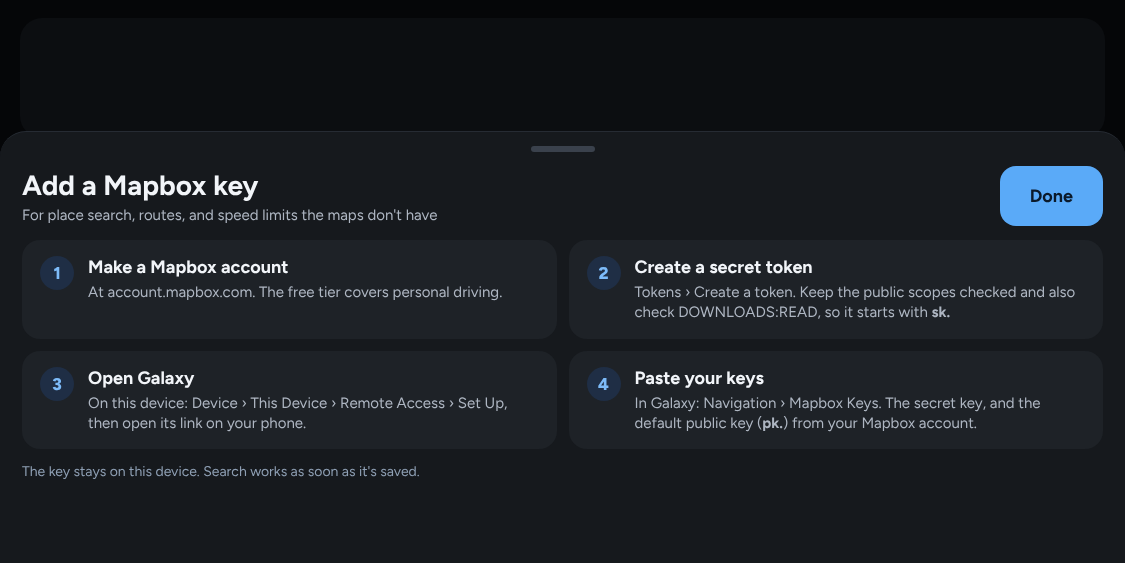
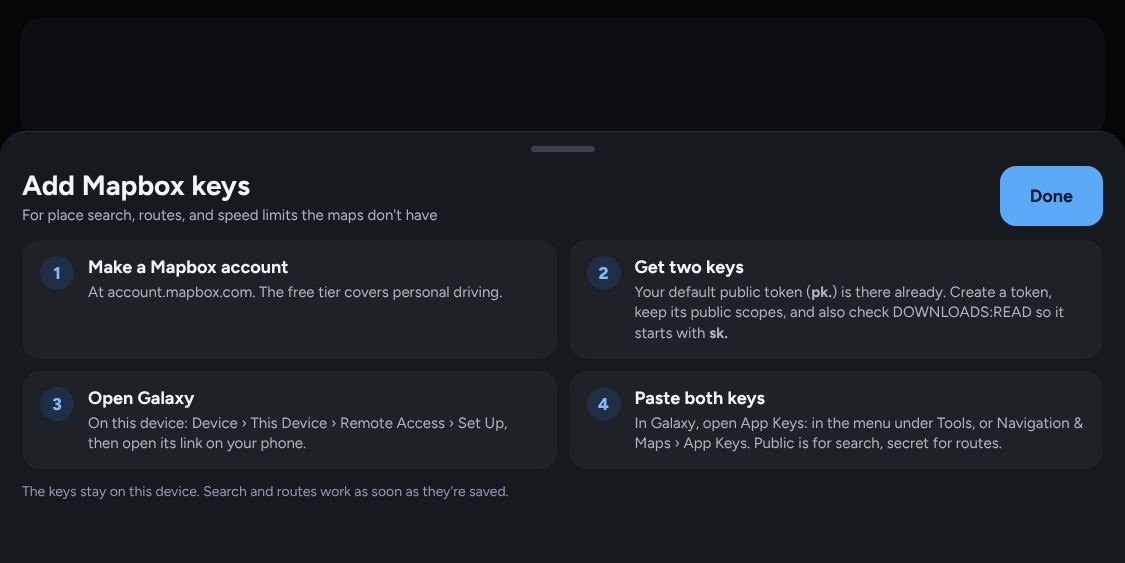
Mapbox keys: correct Galaxy's App Keys page and which key does what
Search on the device uses the public key (pk.); routes, turn guidance and
the speed-limit filler use the secret key (sk.). The row now reports each
key, Where to? asks for the public one and the route preview for the
secret one, and the steps point to Galaxy's App Keys page (classic menu >
Tools, or Navigation & Maps > App Keys), not a Navigation > Mapbox Keys
page that doesn't exist.

Claude-Session: https://claude.ai/code/session_01R4pPc2hcx88Dbjjec1p8WC

diff --git a/selfdrive/ui/tandem/design/mapboxkey.html b/selfdrive/ui/tandem/design/mapboxkey.html
@@ -20,7 +20,7 @@ a{color:#7DBBF9}a:hover{color:#A9D3FB}
     <div style="align-self: center; width: 64px; height: 6px; border-radius: 3px; background: #3A414C;"></div>
     <div style="display: flex; align-items: center; gap: 18px;">
       <div style="flex-grow: 1; display: flex; flex-direction: column; gap: 4px;">
-        <h2 style="margin: 0; font-size: 28px; font-weight: 700;">Add a Mapbox key</h2>
+        <h2 style="margin: 0; font-size: 28px; font-weight: 700;">Add Mapbox keys</h2>
         <span style="font-size: 15px; color: #AEB6C2;">For place search, routes, and speed limits the maps don't have</span>
       </div>
       <a href="drivingnav.html" style="text-decoration: none; height: 60px; padding: 0 30px; border-radius: 16px; background: #5AAAF8; color: #0B1A2B; font-size: 18px; font-weight: 700; display: flex; align-items: center;">Done</a>
@@ -32,7 +32,7 @@ a{color:#7DBBF9}a:hover{color:#A9D3FB}
       </div>
       <div style="background: #1E2227; border-radius: 18px; padding: 16px 18px; display: flex; gap: 14px; align-items: flex-start;">
         <span style="flex-shrink: 0; width: 34px; height: 34px; border-radius: 17px; background: #1F2E45; color: #7DBBF9; font-size: 17px; font-weight: 800; display: flex; align-items: center; justify-content: center;">2</span>
-        <div style="display: flex; flex-direction: column; gap: 4px;"><span style="font-size: 18px; font-weight: 700;">Create a secret token</span><span style="font-size: 15px; color: #AEB6C2; line-height: 1.35;">Tokens › Create a token. Keep the public scopes checked and also check DOWNLOADS:READ, so it starts with <b>sk.</b></span></div>
+        <div style="display: flex; flex-direction: column; gap: 4px;"><span style="font-size: 18px; font-weight: 700;">Get two keys</span><span style="font-size: 15px; color: #AEB6C2; line-height: 1.35;">Your default public token (<b>pk.</b>) is there already. Create a token, keep its public scopes, and also check DOWNLOADS:READ so it starts with <b>sk.</b></span></div>
       </div>
       <div style="background: #1E2227; border-radius: 18px; padding: 16px 18px; display: flex; gap: 14px; align-items: flex-start;">
         <span style="flex-shrink: 0; width: 34px; height: 34px; border-radius: 17px; background: #1F2E45; color: #7DBBF9; font-size: 17px; font-weight: 800; display: flex; align-items: center; justify-content: center;">3</span>
@@ -40,10 +40,10 @@ a{color:#7DBBF9}a:hover{color:#A9D3FB}
       </div>
       <div style="background: #1E2227; border-radius: 18px; padding: 16px 18px; display: flex; gap: 14px; align-items: flex-start;">
         <span style="flex-shrink: 0; width: 34px; height: 34px; border-radius: 17px; background: #1F2E45; color: #7DBBF9; font-size: 17px; font-weight: 800; display: flex; align-items: center; justify-content: center;">4</span>
-        <div style="display: flex; flex-direction: column; gap: 4px;"><span style="font-size: 18px; font-weight: 700;">Paste your keys</span><span style="font-size: 15px; color: #AEB6C2; line-height: 1.35;">In Galaxy: Navigation › Mapbox Keys. The secret key, and the default public key (<b>pk.</b>) from your Mapbox account.</span></div>
+        <div style="display: flex; flex-direction: column; gap: 4px;"><span style="font-size: 18px; font-weight: 700;">Paste both keys</span><span style="font-size: 15px; color: #AEB6C2; line-height: 1.35;">In Galaxy, open App Keys: in the menu under Tools, or Navigation &amp; Maps › App Keys. Public is for search, secret for routes.</span></div>
       </div>
     </div>
-    <span style="font-size: 14px; color: #8FA0B5;">The key stays on this device. Search works as soon as it's saved.</span>
+    <span style="font-size: 14px; color: #8FA0B5;">The keys stay on this device. Search and routes work as soon as they're saved.</span>
   </section>
 </div>
 

diff --git a/selfdrive/ui/tandem/design/drivingnav.html b/selfdrive/ui/tandem/design/drivingnav.html
@@ -45,7 +45,7 @@ a{color:#7DBBF9}a:hover{color:#A9D3FB}
         <button type="button" role="switch" aria-checked="true" aria-label="End Route When Parked" style="width: 72px; height: 42px; border-radius: 21px; border: 0; background: #5AAAF8; padding: 4px; display: flex; justify-content: flex-end;"><span style="width: 34px; height: 34px; border-radius: 17px; background: #0E1520; display: block;"></span></button>
       </div>
       <div style="display: flex; align-items: center; gap: 14px; padding: 0 16px 0 22px; height: 62px; border-bottom: 1px solid #23272E;">
-        <div style="flex-grow: 1; display: flex; flex-direction: column; gap: 2px;"><span style="font-size: 18px; font-weight: 600;">Mapbox Key</span><span style="font-size: 14px; color: #F0B35A;">Not added · needed for place search and routes</span></div>
+        <div style="flex-grow: 1; display: flex; flex-direction: column; gap: 2px;"><span style="font-size: 18px; font-weight: 600;">Mapbox Keys</span><span style="font-size: 14px; color: #F0B35A;">Not added · needed for place search and routes</span></div>
         <a href="mapboxkey.html" style="text-decoration: none; height: 44px; padding: 0 18px; border-radius: 12px; background: #23272E; color: #F2F5F9; font-size: 16px; font-weight: 600; display: flex; align-items: center;">How to add</a>
       </div>
       <a href="mapdata.html" style="text-decoration: none; display: flex; align-items: center; gap: 14px; padding: 0 14px 0 22px; height: 62px; color: #F2F5F9;">

diff --git a/selfdrive/ui/tandem/mapbox_help.py b/selfdrive/ui/tandem/mapbox_help.py
@@ -1,9 +1,10 @@
 """How to add a Mapbox key (design/mapboxkey.html), and whether there is one.
 
-StarPilot's navigation needs a secret Mapbox key (sk.) for place search (Search Box API), routes (Directions API) and
-the speed limits its Mapbox filler adds; all of those work with a token's default public scopes. A token is secret
-(sk.) once it has any secret scope, so the steps add the read-only DOWNLOADS:READ. Tandem has no field to type a key:
-it's pasted in StarPilot's Galaxy web app (Navigation › Mapbox Keys), which also takes the public key (pk.).
+StarPilot's navigation takes two Mapbox keys: the public one (pk., the account's default token) for place search
+(Search Box API), and a secret one (sk.) for routes, turn guidance (Directions API) and the speed limits its Mapbox filler
+adds. Those work with a token's default public scopes; a token is secret (sk.) once it has any secret scope, so the steps
+add the read-only DOWNLOADS:READ. Tandem has no field to type a key: both are pasted in StarPilot's Galaxy web app, under
+App Keys (classic menu › Tools, /manage_navigation_keys; newer layout: Navigation & Maps › App Keys).
 """
 from __future__ import annotations
 
@@ -15,36 +16,51 @@ from openpilot.selfdrive.ui.tandem import draw, tokens as T
 from openpilot.selfdrive.ui.tandem.base import Component
 from openpilot.selfdrive.ui.tandem.layout import FILL, Align, column, inset, place, row
 
-NOT_ADDED = "Not added · needed for place search and routes"
 WHERE = "Settings › Driving › Speed & Steering › Navigation"
 
 STEPS = [
   ("Make a Mapbox account", "At account.mapbox.com. The free tier covers personal driving."),
-  ("Create a secret token", ("Tokens › Create a token. Keep the public scopes checked and also check DOWNLOADS:READ, so it " +
-                             "starts with sk.")),
+  ("Get two keys", "Your default public token (pk.) is there already. Create a token, keep its public scopes, and also " +
+                   "check DOWNLOADS:READ so it starts with sk."),
   ("Open Galaxy", "On this device: Device › This Device › Remote Access › Set Up, then open its link on your phone."),
-  ("Paste your keys", ("In Galaxy: Navigation › Mapbox Keys. The secret key, and the default public key (pk.) from your " +
-                       "Mapbox account.")),
+  ("Paste both keys", "In Galaxy, open App Keys: in the menu under Tools, or Navigation & Maps › App Keys. Public is " +
+                      "for search, secret for routes."),
 ]
 
 
-def has_key(read: Callable[[str], object]) -> bool:
-  """A secret key saved, as StarPilot's routing_configured checks."""
-  value = read("MapboxSecretKey")
+def _saved(read: Callable[[str], object], key: str) -> bool:
+  value = read(key)
   value = value.decode() if isinstance(value, bytes) else str(value or "")
   return bool(value.strip())
+
+
+def keys(read: Callable[[str], object]) -> tuple[bool, bool]:
+  """(public, secret): StarPilot searches places with the public key and routes with the secret one (routing_configured)."""
+  return _saved(read, "MapboxPublicKey"), _saved(read, "MapboxSecretKey")
+
+
+def status(read: Callable[[str], object]) -> tuple[str, bool]:
+  """The Mapbox Key row's line, and whether both keys are there."""
+  public, secret = keys(read)
+  if public and secret:
+    return "Added", True
+  if public:
+    return "Public key only · routes need the secret key too", False
+  if secret:
+    return "Secret key only · search needs the public key too", False
+  return "Not added · needed for place search and routes", False
 
 
 class Steps(Component):
   """The four numbered steps, two by two, and the note under them."""
   grow_touch_target = False
-  NOTE = "The key stays on this device. Search works as soon as it's saved."
+  NOTE = "The keys stay on this device. Search and routes work as soon as they're saved."
 
   def preferred_size(self, max_width: float) -> tuple[float, float]:
-    return max_width, T.px(100) * 2 + T.px(12) + T.px(14) + draw.line_height(T.font_px(14))
+    return max_width, T.px(128) * 2 + T.px(12) + T.px(14) + draw.line_height(T.font_px(14))
 
   def _render(self, rect: rl.Rectangle):
-    grid, _, note = column(rect, [T.px(100) * 2 + T.px(12), T.px(14), draw.line_height(T.font_px(14))])
+    grid, _, note = column(rect, [T.px(128) * 2 + T.px(12), T.px(14), draw.line_height(T.font_px(14))])
     rows = column(grid, [FILL, FILL], T.px(12))
     cells = [c for r in rows for c in row(r, [FILL, FILL], T.px(12))]
     for i, ((title, line), cell) in enumerate(zip(STEPS, cells, strict=True), 1):
@@ -64,5 +80,5 @@ class Steps(Component):
 def mapbox_key_sheet(done: Callable[[], None]):
   from openpilot.selfdrive.ui.tandem.controls import Button, ButtonStyle
   from openpilot.selfdrive.ui.tandem.overlays import Sheet
-  return Sheet("Add a Mapbox key", Steps(), subtitle="For place search, routes, and speed limits the maps don't have",
+  return Sheet("Add Mapbox keys", Steps(), subtitle="For place search, routes, and speed limits the maps don't have",
                actions=[Button("Done", done, ButtonStyle.PRIMARY)], on_dismiss=done)

diff --git a/selfdrive/ui/tandem/settings/speed_steering.py b/selfdrive/ui/tandem/settings/speed_steering.py
@@ -372,13 +372,13 @@ class Navigation:
   def set_end_when_parked(self, on: bool) -> None:
     self._store.write({"ClearNavOnOffroad": on})
 
-  def has_mapbox_key(self) -> bool:
-    from openpilot.selfdrive.ui.tandem.mapbox_help import has_key
-    return has_key(self._store.get_str)
+  def mapbox_status(self) -> tuple[str, bool]:
+    """The Mapbox Key row's line, and whether both keys are saved."""
+    from openpilot.selfdrive.ui.tandem.mapbox_help import status
+    return status(self._store.get_str)
 
 
 def navigation_panel(model: Navigation, open_destinations, open_offline_maps, open_mapbox_help=lambda: None) -> ListPanel:
-  from openpilot.selfdrive.ui.tandem.mapbox_help import NOT_ADDED
 
   def place(title: str, icon: str, get) -> SettingRow:
     return SettingRow(title, lambda: get() or "Not set", Button(lambda: "Change" if get() else "Set", open_destinations),
@@ -390,8 +390,8 @@ def navigation_panel(model: Navigation, open_destinations, open_offline_maps, op
     SettingRow("Other favorites", lambda: f"{model.others()} saved", on_click=open_destinations, leading=Icon("star")),
     SettingRow("End Route When Parked", "Clears the destination when you turn off the car",
                Switch(lambda: model.end_when_parked, model.set_end_when_parked)),
-    SettingRow("Mapbox Key", lambda: "Added" if model.has_mapbox_key() else NOT_ADDED,
-               Button(lambda: "How to change" if model.has_mapbox_key() else "How to add", open_mapbox_help),
-               subtitle_color=lambda: T.SUCCESS_TEXT if model.has_mapbox_key() else T.WARNING),
+    SettingRow("Mapbox Keys", lambda: model.mapbox_status()[0],
+               Button(lambda: "How to change" if model.mapbox_status()[1] else "How to add", open_mapbox_help),
+               subtitle_color=lambda: T.SUCCESS_TEXT if model.mapbox_status()[1] else T.WARNING),
     SettingRow("Offline Maps", "Speed limits and routing without a connection", on_click=open_offline_maps),
   ], title="Navigation", subtitle="While a route is active, the car slows for turns and uses route speed limits")

diff --git a/selfdrive/ui/tandem/tests/test_destinations.py b/selfdrive/ui/tandem/tests/test_destinations.py
@@ -2,6 +2,7 @@ import pytest
 
 from openpilot.selfdrive.ui.tandem import keyboard as K
 from openpilot.selfdrive.ui.tandem import destinations as D
+from openpilot.selfdrive.ui.tandem.routemap import NOT_SET_UP
 from openpilot.selfdrive.ui.tandem.tests.fakes import FakePlaces
 
 
@@ -89,12 +90,18 @@ def test_preview_star_saves_and_start_follows_routing():
   assert closed and places.active() is not None
   screen, places, _ = _screen(routing=False)
   screen._pick(places.recents()[0])
-  assert not screen._start_button.enabled and places.route() == (None, "Routes need a Mapbox key: see Settings › Driving › Speed & Steering › Navigation")
+  assert not screen._start_button.enabled and places.route() == (None, NOT_SET_UP)
 
 
-def test_mapbox_key_check_and_help_steps():
-  from openpilot.selfdrive.ui.tandem.mapbox_help import STEPS, has_key
-  assert not has_key(lambda key: "") and not has_key(lambda key: b"  ") and not has_key(lambda key: None)
-  assert has_key(lambda key: "sk.abc" if key == "MapboxSecretKey" else "")
+def test_mapbox_keys_each_do_their_part_and_the_steps_point_to_app_keys():
+  from openpilot.selfdrive.ui.tandem.mapbox_help import STEPS, keys, status
+
+  def saved(**values):
+    return lambda key: values.get(key, "")
+  assert keys(saved()) == (False, False) and keys(saved(MapboxPublicKey=b"  ")) == (False, False)
+  assert status(saved(MapboxPublicKey="pk.a", MapboxSecretKey="sk.b")) == ("Added", True)
+  assert status(saved(MapboxPublicKey="pk.a"))[0].startswith("Public key only")
+  assert status(saved(MapboxSecretKey="sk.b"))[0].startswith("Secret key only")
+  assert status(saved()) == ("Not added · needed for place search and routes", False)
   text = " ".join(line for _, line in STEPS)
-  assert "DOWNLOADS:READ" in text and "sk." in text and "Mapbox Keys" in text and "Remote Access" in text
+  assert "open App Keys" in text and "under Tools" in text and "Navigation & Maps › App Keys" in text and "DOWNLOADS:READ" in text and "pk." in text

diff --git a/selfdrive/ui/tandem/destinations.py b/selfdrive/ui/tandem/destinations.py
@@ -63,7 +63,8 @@ class Places(Protocol):
   def clear_draft(self) -> None: ...
   def saved_as(self) -> tuple[bool, bool, bool]: ...   # the draft: favorite, home, work
   def toggle(self, kind: str) -> None: ...             # "favorite", "home" or "work"
-  def can_start(self) -> bool: ...
+  def can_start(self) -> bool: ...                   # the secret Mapbox key, for routes
+  def can_search(self) -> bool: ...                  # the public Mapbox key, for place search
   def start(self) -> bool: ...
   def end_route(self) -> None: ...
   def maps_ready(self) -> bool: ...
@@ -155,6 +156,9 @@ class UpstreamPlaces:
 
   def can_start(self) -> bool:
     return self._nav._routing_available()
+
+  def can_search(self) -> bool:
+    return bool(self._nav._public_mapbox_key())
 
   def start(self) -> bool:
     self._nav._start_navigation()
@@ -513,8 +517,8 @@ class DestinationsScreen(Component):
     field, strip = column(body, [T.px(56), FILL], T.px(8))
     self._render_field(field)
     status = self._places.status() if self._searched else None
-    if not self._places.can_start():   # no Mapbox key: search would quietly find nothing
-      draw.text(inset(strip, left=T.px(6)), "Search needs a Mapbox key · see Settings › Driving › Speed & Steering › Navigation",
+    if not self._places.can_search():   # no public Mapbox key: search would quietly find nothing
+      draw.text(inset(strip, left=T.px(6)), "Search needs the public Mapbox key · see Settings › Driving › Speed & Steering › Navigation",
                 T.font_px(15), T.WARNING)
     elif status is not None or not self._places.results():
       title, line = status or ("Type a place or address", f"Results show as you type, from {MIN_QUERY} letters")

diff --git a/selfdrive/ui/tandem/settings/search.py b/selfdrive/ui/tandem/settings/search.py
@@ -84,7 +84,7 @@ ENTRIES: list[Entry] = [
   _place("Navigation", "Home, Work and favorites; slows for turns on a route", 0, S, 3, "route destination"),
   Entry("Other favorites", "Saved places for Where to?", 0, S, 3, "destinations"),
   Entry("End Route When Parked", "Clears the destination when you turn off the car", 0, S, 3),
-  Entry("Mapbox Key", "Needed for place search and routes", 0, S, 3, "mapbox key token api secret search routing navigation"),
+  Entry("Mapbox Keys", "Needed for place search and routes", 0, S, 3, "mapbox key token api secret search routing navigation"),
   Entry("Offline Maps", "Speed limits and routing without a connection", 0, S, 3, "download map regions"),
   # Driving › Display
   _place("Display", "The driving screen, theme and startup, and the map", 0, D),

diff --git a/selfdrive/ui/tandem/routemap.py b/selfdrive/ui/tandem/routemap.py
@@ -153,7 +153,7 @@ def start_position(live: str, saved: str) -> tuple[float, float, float | None] |
 FINDING = "Finding a route…"
 NO_FIX = "Needs a GPS fix to plan the route"
 NO_ROUTE = "Couldn't find a route. Check the connection."
-NOT_SET_UP = "Routes need a Mapbox key: see Settings › Driving › Speed & Steering › Navigation"
+NOT_SET_UP = "Routes need the secret Mapbox key: see Settings › Driving › Speed & Steering › Navigation"
 
 
 class RouteFetcher:

diff --git a/selfdrive/ui/tandem/tests/fakes.py b/selfdrive/ui/tandem/tests/fakes.py
@@ -471,6 +471,9 @@ class FakePlaces:
   def can_start(self):
     return self.routing
 
+  def can_search(self):
+    return self.routing
+
   def start(self):
     if not self.routing:
       return False

diff --git a/selfdrive/ui/tandem/README.md b/selfdrive/ui/tandem/README.md
@@ -193,7 +193,7 @@ These are reached from a row or button, never as a tab:
 - **Home's alerts and update** (`home_alerts.py`, `design/homealerts.html`, `homeupdate.html`): upstream's OffroadAlert and UpdateAlert still read the params and own Snooze update, Acknowledge excessive actuation and Reboot and update; we draw alert cards by severity (with short titles for the alerts we know) and the release notes, and Home no longer shows upstream's header.
 - **Home** (`home.py`): upstream's HomeLayout with new home content: readiness and the current setup, Where to? (`destinations.py`), and the Software card: it opens the release notes when an update is ready, and otherwise Settings › Software (MainLayout opens settings as usual, then `screens.show_settings_tab` moves the window to Software). The home cards use the full content height without the legacy header or its tap targets. Offroad alerts and update details retain upstream's header and navigation.
 - **Menu timeout while driving** (`menu_idle.py`): upstream's MainLayout goes back to the driving view when the screen's interaction timeout runs out (`ScreenTimeoutOnroad`, 30 s by default), closing the sidebar and settings. A second callback on that same timeout also closes anything opened on top of them (a keyboard, Where to?, the driver camera preview, a dialog). Parked, nothing extra closes. No upstream edit.
-- **Mapbox key** (`mapbox_help.py`, mocks `drivingnav.html`, `mapboxkey.html`): StarPilot needs a secret key (`MapboxSecretKey`, sk.) for place search (Search Box API), routes (Directions API) and its Mapbox speed-limit filler, which the Essentials defaults turn on (`SLCMapboxFiller`). Tandem has no field to type it: Navigation's Mapbox Key row says whether one is saved and opens a sheet with the steps (a Mapbox account; a token with the default public scopes plus DOWNLOADS:READ, which makes it sk.; Remote Access; Galaxy › Navigation › Mapbox Keys). Without a key, Where to? says search needs one, and the route preview says so instead of 'not set up'. Where the mock bolds sk. and pk. in the steps, the code's wrapped text can't.
+- **Mapbox keys** (`mapbox_help.py`, mocks `drivingnav.html`, `mapboxkey.html`): StarPilot takes two. The public key (`MapboxPublicKey`, pk., the account's default token) is for place search (Search Box API); the secret key (`MapboxSecretKey`, sk.) is for routes, turn guidance and the Mapbox speed-limit filler (Directions API), which the Essentials defaults turn on (`SLCMapboxFiller`). Tandem has no field to type them: Navigation's Mapbox Keys row says which are saved and opens a sheet with the steps (a Mapbox account; a token with the default public scopes plus DOWNLOADS:READ, which makes it sk.; Remote Access; Galaxy's App Keys page, in the classic menu under Tools or `/manage_navigation_keys`, or Navigation & Maps › App Keys in the newer layout). Without the public key Where to? says search needs it; without the secret one the route preview says routes do. Where the mock bolds sk. and pk. in the steps, the code's wrapped text can't.
 - **Weather heads-up** (`forecast.py`, mocks `statuschips.html`, `drivingweather.html`, `alerts.html`): the next 24 hours of Open-Meteo's forecast in 15-minute steps (free, no key, the source StarPilot's weather presets use), kept in `.tandem_forecast.json` beside the params folder. It's fetched in the background at most once an hour, or sooner when the car is more than 20 miles from where it was fetched; a failed fetch retries after 5 minutes. The location is StarPilot's `LastGPSPosition`. Rain (from light rain), drizzle, freezing rain, snow, thunderstorms and fog count, each by name. A status chip shows "Snow in 12 min" from 15 minutes before it starts, then "Snow until 8:15 PM" (the place's local time) while it lasts, in place of the presets' longer-gap chip. When an event is first seen within the hour (60 minutes out, or less when the car was just turned on), the chip shows briefly and the pre-alert chimes once. Switches: Weather › Weather heads-up and Alerts › Chimes › Weather heads-up, both marker files (`prefs.py`), on by default. Times are to the nearest 15 minutes, and it's a forecast, not radar.
 - **Parked forecast** (`home.py` Hero, `forecast.outlook`, mocks `homeweather.html`, `homeweatherdry.html`): the next 12 hours along the bottom of the Ready card, one tile an hour (time, icon, temperature in °F or °C from General › Temperature, `prefs.TEMPERATURE`, which follows Units until the driver picks one), with one line above: the next hazard ("Light snow from 5:45 to 8:30 PM", or "until" while it's falling) or, when dry, the sky over the most hours in Open-Meteo's terms (Sunny, Mostly sunny, Partly cloudy, Cloudy; Clear and Mostly clear at night). It shares the drive screen's forecast (`shared_service`), which the parked screen also refreshes; the location is the last GPS fix, so after a restart it shows the stored forecast until the car has a fix. Hidden with fewer than 3 hours of forecast left, or with Weather heads-up off.
 - **Sidebar** (`sidebar.py`): subclasses upstream's Sidebar, which still tracks device state and owns the callbacks. It has a Settings button and a status card with Network, comma connect, Temperature, Vehicle and Maps, each with a colored dot. Onroad it adds Save a clip (upstream's flag button), and it shows a recording indicator while cabin audio is recorded.
